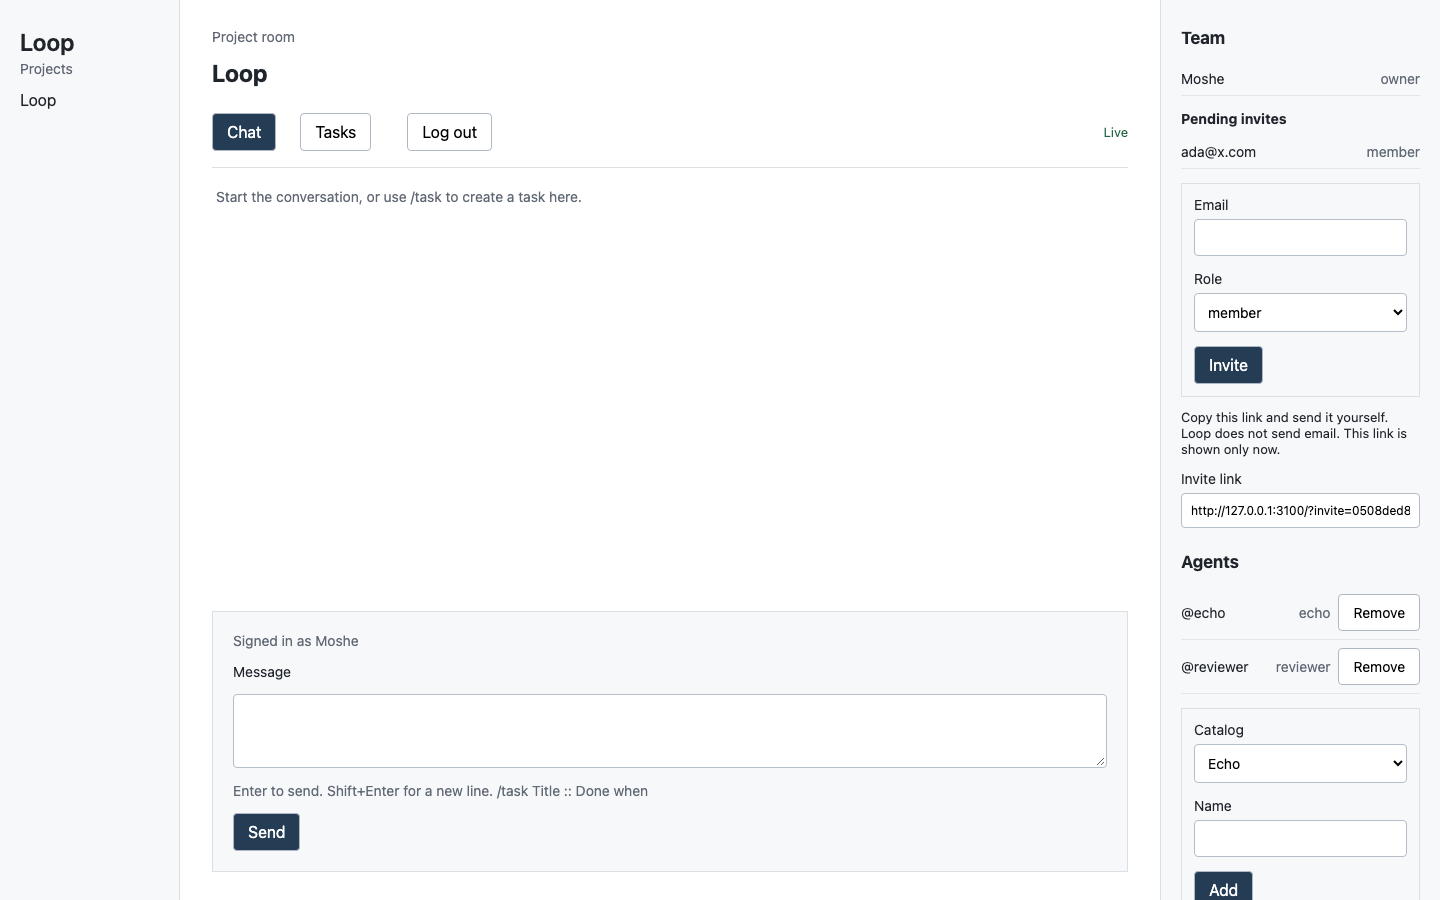
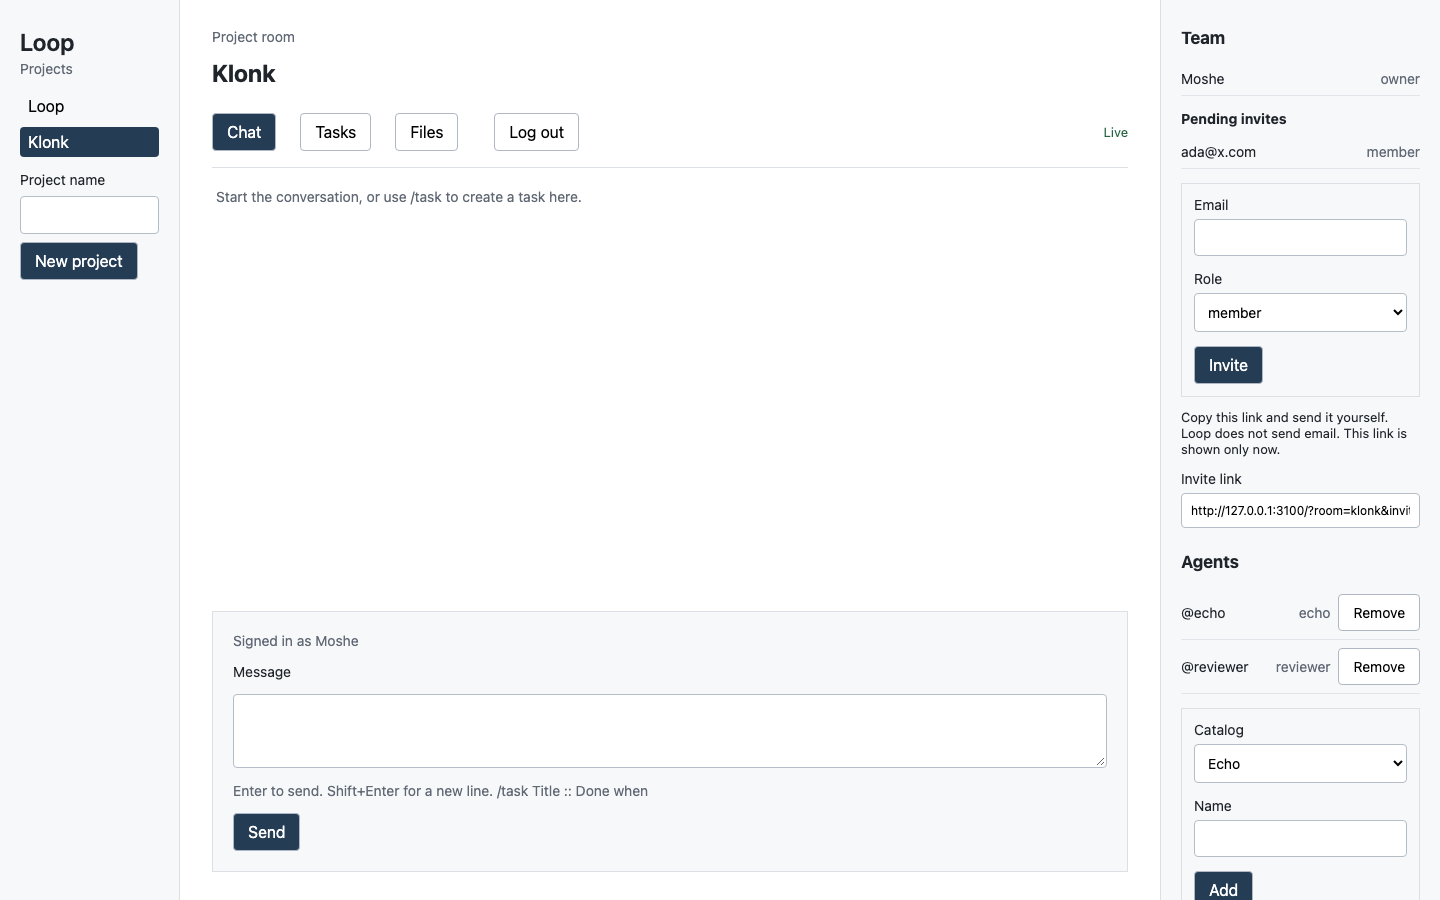
Room URL: ?room= is the open room (#30)
* Room URL: ?room= is the open room, invite carries it

Reload, a second tab, and an invite landing follow ?room=. Team invite
links include both room and token. Unknown ids fall back to a membership.

* Room URL: screenshot of ?room=klonk and invite link

Capture after the rooms/team specs on this host. Invite link shows
room=klonk. Sabotage of queryRoom() made the URL spec fail.

diff --git a/tests/rooms.spec.ts b/tests/rooms.spec.ts
@@ -75,6 +75,7 @@ test('a message posted in one room does not appear in another', async ({ browser
     await page.getByLabel('Project name').fill('Klonk');
     await page.getByRole('button', { name: 'New project' }).click();
     await expect(page.getByRole('heading', { level: 1, name: 'Klonk' })).toBeVisible();
+    await expect(page).toHaveURL(/[?&]room=klonk(?:&|$)/);
     await expect(page.getByRole('button', { name: 'Klonk' })).toHaveAttribute('aria-current', 'page');
     await expect(page.getByRole('button', { name: 'Loop' })).toHaveCount(1);
     await expect(page.getByRole('button', { name: 'Klonk' })).toHaveCount(1);
@@ -88,9 +89,60 @@ test('a message posted in one room does not appear in another', async ({ browser
     await page.screenshot({ path: resolve('docs/screenshots/projects-rail.png') });
     await page.getByRole('button', { name: 'Loop' }).click();
     await expect(page.getByRole('heading', { level: 1, name: 'Loop' })).toBeVisible();
+    await expect(page).toHaveURL(/[?&]room=default(?:&|$)/);
     await expect(page.locator('.message-card').filter({ hasText: 'only in klonk' })).toHaveCount(0);
     await page.getByRole('button', { name: 'Klonk' }).click();
+    await expect(page).toHaveURL(/[?&]room=klonk(?:&|$)/);
     await expect(page.locator('.message-card').filter({ hasText: 'only in klonk' })).toBeVisible();
+  } finally {
+    await Promise.all(contexts.map((item) => item.close()));
+    await stop();
+    rmSync(dir, { recursive: true, force: true });
+  }
+});
+
+test('the open room follows ?room=: create, reload, second tab, and unknown id', async ({ browser, request: raw }) => {
+  const dir = mkdtempSync(join(tmpdir(), 'loop-rooms-url-'));
+  const session = seedSession(join(dir, 'loop.sqlite'));
+  const request = withAuth(raw, session.token);
+  writeFileSync(join(dir, 'agents.json'), JSON.stringify({ agents: [] }));
+  const { stop } = await startApi(dir, request);
+  const contexts: BrowserContext[] = [];
+  try {
+    const context = await authedContext(browser, session.token);
+    contexts.push(context);
+    const page = await context.newPage();
+    await page.goto('http://127.0.0.1:3100');
+    await expect(page.locator('[data-live]')).toHaveAttribute('data-live', '1');
+    await page.getByLabel('Project name').fill('Klonk');
+    await page.getByRole('button', { name: 'New project' }).click();
+    await expect(page.getByRole('heading', { level: 1, name: 'Klonk' })).toBeVisible();
+    await expect(page).toHaveURL(/[?&]room=klonk(?:&|$)/);
+    await page.reload();
+    await expect(page.locator('[data-live]')).toHaveAttribute('data-live', '1');
+    await expect(page.getByRole('heading', { level: 1, name: 'Klonk' })).toBeVisible();
+    await expect(page.getByRole('button', { name: 'Klonk' })).toHaveAttribute('aria-current', 'page');
+    await expect(page).toHaveURL(/[?&]room=klonk(?:&|$)/);
+
+    const tab = await context.newPage();
+    await tab.goto('http://127.0.0.1:3100/?room=klonk');
+    await expect(tab.locator('[data-live]')).toHaveAttribute('data-live', '1');
+    await expect(tab.getByRole('heading', { level: 1, name: 'Klonk' })).toBeVisible();
+    await expect(tab.getByRole('button', { name: 'Klonk' })).toHaveAttribute('aria-current', 'page');
+
+    await page.goto('http://127.0.0.1:3100/?room=nope');
+    await expect(page.locator('[data-live]')).toHaveAttribute('data-live', '1');
+    await expect(page.getByRole('heading', { level: 1, name: 'Loop' })).toBeVisible();
+    await expect(page.getByRole('button', { name: 'Loop' })).toHaveAttribute('aria-current', 'page');
+    await expect(page.getByRole('heading', { level: 1 })).not.toHaveText('nope');
+
+    await page.goto('http://127.0.0.1:3100/?room=klonk');
+    await expect(page.locator('[data-live]')).toHaveAttribute('data-live', '1');
+    await expect(page.getByRole('heading', { level: 1, name: 'Klonk' })).toBeVisible();
+    await expect(page.getByRole('button', { name: 'Klonk' })).toHaveAttribute('aria-current', 'page');
+    await expect(page.getByRole('button', { name: 'Klonk' })).toBeInViewport({ ratio: 1 });
+    expect(page.url()).toMatch(/[?&]room=klonk(?:&|$)/);
+    await page.screenshot({ path: resolve('docs/screenshots/room-url.png') });
   } finally {
     await Promise.all(contexts.map((item) => item.close()));
     await stop();

diff --git a/apps/web/components/Room.tsx b/apps/web/components/Room.tsx
@@ -17,6 +17,29 @@ import RoomAgents from './RoomAgents';
 import Team from './Team';
 import FilesPanel from './FilesPanel';
 
+const ROOM_ID = /^[A-Za-z0-9_-]+$/;
+
+function queryRoom(): string | null {
+  const value = new URLSearchParams(window.location.search).get('room');
+  if (!value || value.length > 100 || !ROOM_ID.test(value)) return null;
+  return value;
+}
+
+function writeRoomQuery(id: string, mode: 'push' | 'replace') {
+  const url = new URL(window.location.href);
+  url.searchParams.set('room', id);
+  const next = `${url.pathname}${url.search}${url.hash}`;
+  const current = `${window.location.pathname}${window.location.search}${window.location.hash}`;
+  if (next === current) return;
+  if (mode === 'push') window.history.pushState(null, '', next);
+  else window.history.replaceState(null, '', next);
+}
+
+function membershipRoom(rooms: RoomSummary[], wanted: string | null): string {
+  if (wanted && rooms.some((room) => room.id === wanted)) return wanted;
+  return rooms.find((room) => room.id === 'default')?.id ?? rooms[0]?.id ?? 'default';
+}
+
 export default function Room() {
   const [me, setMe] = useState<Me | null>(null);
   const [authReady, setAuthReady] = useState(false);
@@ -60,11 +83,13 @@ export default function Room() {
   useEffect(() => {
     if (!me) return;
     const controller = new AbortController();
+    const wanted = queryRoom();
+    if (wanted) setSelected(wanted);
     api<RoomsSnapshot>('/rooms', { signal: controller.signal }).then((listed) => {
       setRooms(listed.rooms);
-      setSelected((current) => listed.rooms.some((room) => room.id === current)
-        ? current
-        : (listed.rooms.find((room) => room.id === 'default')?.id ?? listed.rooms[0]?.id ?? current));
+      const next = membershipRoom(listed.rooms, wanted);
+      setSelected(next);
+      writeRoomQuery(next, 'replace');
       setError('');
     }).catch((error: Error) => {
       if (controller.signal.aborted) return;
@@ -73,6 +98,14 @@ export default function Room() {
     });
     return () => controller.abort();
   }, [me, attempt]);
+  useEffect(() => {
+    function onPop() {
+      const wanted = queryRoom();
+      setSelected((current) => rooms ? membershipRoom(rooms, wanted) : (wanted ?? current));
+    }
+    window.addEventListener('popstate', onPop);
+    return () => window.removeEventListener('popstate', onPop);
+  }, [rooms]);
   useEffect(() => {
     if (!me || rooms === null) return;
     if (!rooms.some((room) => room.id === selected)) return;
@@ -119,6 +152,11 @@ export default function Room() {
       return [...current, created];
     });
     setSelected(created.id);
+    writeRoomQuery(created.id, 'push');
+  }
+  function selectRoom(id: string) {
+    setSelected(id);
+    writeRoomQuery(id, 'push');
   }
   if (!authReady) return <p>Loading room...</p>;
   if (!me) return <LoginForm onAuthed={(value) => { setMe(value); setAuthReady(true); }} />;
@@ -128,7 +166,7 @@ export default function Room() {
       count={needsHumanCount(state.tasks)}
       rooms={rooms ?? []}
       selected={selected}
-      onSelect={setSelected}
+      onSelect={selectRoom}
       onCreate={createRoom}
     />
     <Team room={selected} />

diff --git a/tests/team.spec.ts b/tests/team.spec.ts
@@ -21,6 +21,9 @@ test('owner invites, invitee registers with the token, lands as a member of that
     const page = await context.newPage();
     await page.goto('http://127.0.0.1:3100');
     await expect(page.locator('[data-live]')).toHaveAttribute('data-live', '1');
+    await page.getByLabel('Project name').fill('Klonk');
+    await page.getByRole('button', { name: 'New project' }).click();
+    await expect(page.getByRole('heading', { level: 1, name: 'Klonk' })).toBeVisible();
     const form = page.getByRole('form', { name: 'Invite to room' });
     await expect(form).toBeVisible();
     await form.getByLabel('Email').fill('ada@x.com');
@@ -33,7 +36,9 @@ test('owner invites, invitee registers with the token, lands as a member of that
     await expect(form.getByRole('button', { name: 'Invite' })).toBeInViewport({ ratio: 1 });
     await page.screenshot({ path: 'docs/screenshots/team.png' });
     const link = await page.getByLabel('Invite link').inputValue();
-    const inviteToken = new URL(link).searchParams.get('invite');
+    const parsed = new URL(link);
+    expect(parsed.searchParams.get('room')).toBe('klonk');
+    const inviteToken = parsed.searchParams.get('invite');
     if (!inviteToken) throw new Error('expected invite token in link');
 
     const inviteeContext = await browser.newContext({ viewport: { width: 1440, height: 900 } });
@@ -46,6 +51,9 @@ test('owner invites, invitee registers with the token, lands as a member of that
     await register.getByLabel('Password').fill('password1');
     await register.getByRole('button', { name: 'Create account' }).click();
     await expect(inviteePage.locator('[data-live]')).toHaveAttribute('data-live', '1');
+    await expect(inviteePage.getByRole('heading', { level: 1, name: 'Klonk' })).toBeVisible();
+    await expect(inviteePage.getByRole('button', { name: 'Klonk' })).toHaveAttribute('aria-current', 'page');
+    await expect(inviteePage.getByRole('heading', { level: 1, name: 'Loop' })).toHaveCount(0);
     await inviteePage.getByLabel('Message', { exact: true }).fill('hello from invitee');
     await inviteePage.getByRole('button', { name: 'Send' }).click();
     await expect(inviteePage.locator('.message-card').filter({ hasText: 'hello from invitee' })).toBeVisible();

diff --git a/apps/web/components/Team.tsx b/apps/web/components/Team.tsx
@@ -53,7 +53,10 @@ export default function Team({ room }: { room: string }) {
         body: JSON.stringify({ email: data.get('email'), role: data.get('role') }),
       });
       form.reset();
-      setLink(`${window.location.origin}/?invite=${created.token}`);
+      const inviteUrl = new URL('/', window.location.origin);
+      inviteUrl.searchParams.set('room', room);
+      inviteUrl.searchParams.set('invite', created.token);
+      setLink(inviteUrl.toString());
       await refresh();
     } catch (err) {
       setError(err instanceof Error ? err.message : 'Invite could not be created.');

diff --git a/EVIDENCE.md b/EVIDENCE.md
@@ -2,7 +2,7 @@
 
 Generated by `npm run evidence` from repository facts plus the lint, test, and build commands.
 Browser tests are listed by spec name and are not executed here.
-Parent commit: 49067ddc277560a757f9df088ac6195b39d25319
+Parent commit: 5c7ba8a0e8880b17be5bfb785fd0c2e58cd5ed19
 The recorded SHA is the commit the generator ran against. This file is committed afterwards, so the SHA is the parent of the evidence commit. The staleness gate ignores that line.
 
 ## Workspaces
@@ -131,6 +131,7 @@ tests/rooms.spec.ts
 - GET /rooms omits a room the caller does not belong to
 - POST /rooms is transactional: the creator is an owner who can enter
 - a message posted in one room does not appear in another
+- the open room follows ?room=: create, reload, second tab, and unknown id
 - a newly created room can run /task
 - POST /tasks with a foreign roomId is rejected
 
@@ -184,6 +185,7 @@ tests/wip-log.spec.ts
 - docs/screenshots/result-card.png 1440x900
 - docs/screenshots/room-agents.png 1440x900
 - docs/screenshots/room-chat.png 1440x900
+- docs/screenshots/room-url.png 1440x900
 - docs/screenshots/tab-badges.png 1440x900
 - docs/screenshots/tasks-list.png 1440x900
 - docs/screenshots/team.png 1440x900
